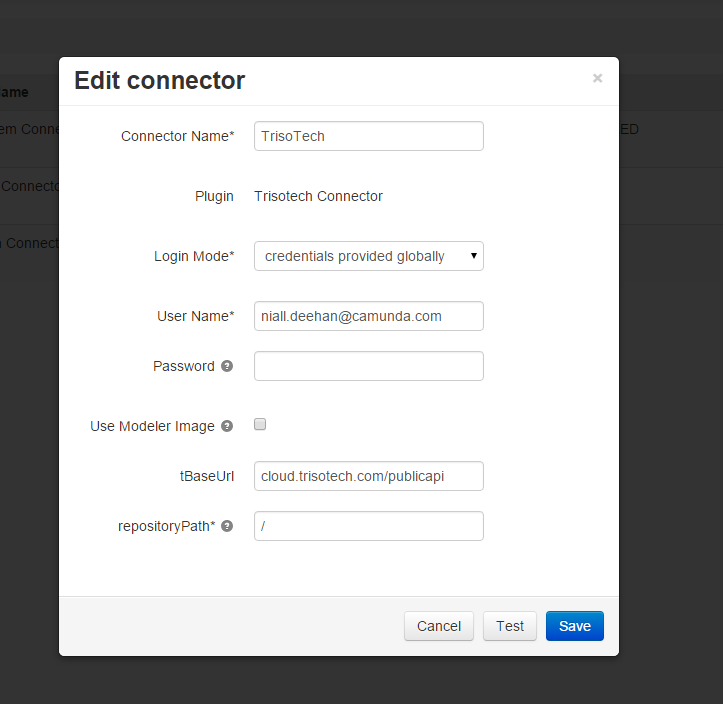
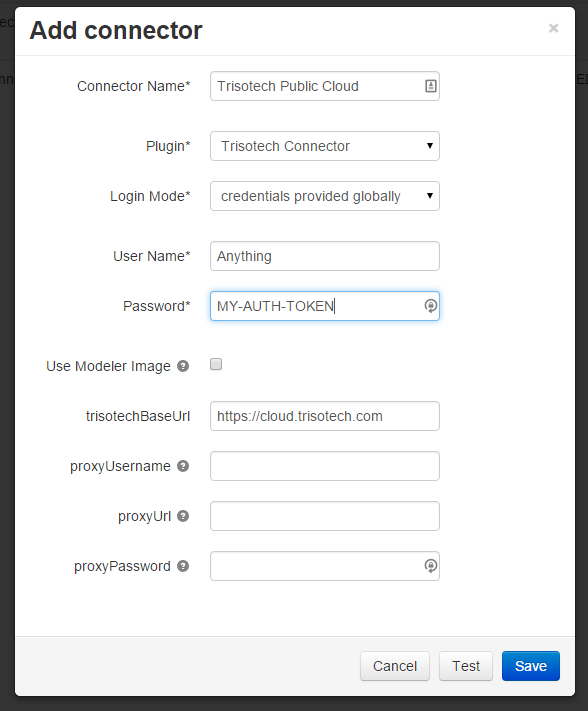
Completed the login mechanism for the Trisotech Connector

diff --git a/src/main/java/org/camunda/bpm/cycle/connector/trisotech/TrisotechClient.java b/src/main/java/org/camunda/bpm/cycle/connector/trisotech/TrisotechClient.java
@@ -100,7 +100,7 @@ public class TrisotechClient {
 	  private Executor requestExecutor;
 
 	  private String configurationName;
-	  private String trisotechBaseUrl; //The default should be - https://cloud.trisotech.com/publicapi/
+	  private String trisotechBaseUrl; //The default should be - https://cloud.trisotech.com
 	  private String proxyUrl;
 	  private String proxyUsername;
 	  private String proxyPassword;
@@ -116,6 +116,17 @@ public class TrisotechClient {
 		  
 		    this.configurationName = configurationName;
 		    this.trisotechBaseUrl = trisotechBaseUrl;
+            //Correct user inputted url
+            if(this.trisotechBaseUrl.endsWith("/")){
+                this.trisotechBaseUrl = this.trisotechBaseUrl.substring(0, this.trisotechBaseUrl.length() - 1);
+            }
+            if(!this.trisotechBaseUrl.endsWith("/publicapi")) {
+               this.trisotechBaseUrl = this.trisotechBaseUrl + "/publicapi";
+            }
+            if(!this.trisotechBaseUrl.startsWith("http")){
+                this.trisotechBaseUrl = "https://" + this.trisotechBaseUrl;
+            }
+            System.out.println("USING" + this.trisotechBaseUrl);
 		    this.proxyUrl = proxyUrl;
 		    this.proxyUsername = proxyUsername;
 		    this.proxyPassword = proxyPassword;
@@ -251,28 +262,17 @@ public class TrisotechClient {
 	 
 	  public boolean login(String username, String password) {   
 		    
-//	This is being commented out until trisotech sort out their login REST call
-//		  
-//		  URIBuilder builder = new URIBuilder()
-//		    	.setScheme("https")
-//	            .setHost(requestUrl(LOGIN_URL_SUFFIX).toString())
-//	            .setParameter("username", username)
-//	            .setParameter("password", password)
-//	            .setParameter("mode", "json");
-//		    	
 
-		// Until the login works - as a temporary measure, we're going to use a test token. 
-		  String testToken = "a16e1c9b-e0c4-4f17-9c03-359faf24429a";
+         // The login token is saved in the password
+		  String testToken = password;
 		  
-		  // https://cloud.trisotech.com/publicapi/login?mode=xml&authtoken=
-		  URIBuilder builder = new URIBuilder()
-	    	.setScheme("https")
-	    	.setHost(requestUrl(LOGIN_URL_SUFFIX).toString())
-	    	.setParameter("mode", "json")
-		  	.setParameter("authtoken", testToken);
-		    
 		    URI uri = null;
 		    try {
+              // https://cloud.trisotech.com/publicapi/login?mode=xml&authtoken=
+              URIBuilder builder = new URIBuilder(requestUrl(LOGIN_URL_SUFFIX).toString())
+                .setParameter("mode", "json")
+                .setParameter("authtoken", testToken);
+		    
 				uri = builder.build();
 			} catch (URISyntaxException e) {
 				e.printStackTrace();
@@ -284,10 +284,9 @@ public class TrisotechClient {
 		    			request.addHeader("accept", ContentType.APPLICATION_JSON.getMimeType());
 		    HttpResponse response = executeAndGetResponse(request);
 		    
-		    String responseResult = extractResponseResult(response);
-		   // System.out.println(responseResult);
-		    if (responseResult == null || responseResult.equals("")) {
-		      throw new CycleException("Could not login into connector '" + configurationName + "'. The user name and/or password might be incorrect.");
+		    String responseResult = extractResponseResult(response);		    
+		    if (responseResult == null || responseResult.equals("") || responseResult.contains("InvalidMemberCredentials")) {
+		      throw new CycleException("Could not login into connector '" + configurationName + "'. The user name and/or password might be incorrect. Make sure that you use the authToken obtained from " + trisotechBaseUrl + "/login as your password." );
 		    }
 		    
 		    String authTokenTemp = "";
@@ -308,16 +307,14 @@ public class TrisotechClient {
 	  
 	  public String getRepositories()
 	  {
-		  //https://cloud.trisotech.com/publicapi/repository?authtoken=a16e1c9b-e0c4-4f17-9c03-&mode=json
-		  URIBuilder builder = new URIBuilder()
-	    	.setScheme("https")
-	    	.setHost(requestUrl(REPOSITORY_URL_SUFFIX).toString())
-	    	.setParameter("mimetype", MIMETYPE_URL_SUFFIX)
-	    	.setParameter("mode", "json")
-		  	.setParameter("authtoken", getAuthToken());
 		    
 		    URI uri = null;
 		    try {
+              //https://cloud.trisotech.com/publicapi/repository?authtoken=a16e1c9b-e0c4-4f17-9c03-&mode=json
+              URIBuilder builder = new URIBuilder(requestUrl(REPOSITORY_URL_SUFFIX).toString())
+                .setParameter("mimetype", MIMETYPE_URL_SUFFIX)
+                .setParameter("mode", "json")
+                .setParameter("authtoken", getAuthToken());
 				uri = builder.build();
 			} catch (URISyntaxException e) {
 				e.printStackTrace();
@@ -351,10 +348,9 @@ public class TrisotechClient {
 		      
 		      URI requestURI = builder.build();
 		      logger.fine(requestURI.toString());
-		     // System.out.println(requestURI.toString());
 		      return requestURI;
 		    } catch (URISyntaxException e) {
-		      throw new CycleException("Failed to construct url for signavio request.", e);
+		      throw new CycleException("Failed to construct url for trisotech request.", e);
 		    }
 		  }
 	  
@@ -476,18 +472,15 @@ public class TrisotechClient {
 
 
 	public String getChildren(TrisotechConnectorNode parent) {
-	
-		URIBuilder builder = new URIBuilder()
-	    	.setScheme("https")
-	    	.setHost(requestUrl(REPOSITORY_CONTENT_URL_SUFFIX).toString())
-	    	.setParameter("repository", getRespositoryName(parent))
-	    	.setParameter("mode", "json")
-	    	.setParameter("mimetype", MIMETYPE_URL_SUFFIX)
-		  	.setParameter("authtoken", getAuthToken())
-		  	.setParameter("path", parent.getTrisotechPath()); 
-		    
+			    
 		    URI uri = null;
 		    try {
+                URIBuilder builder = new URIBuilder(requestUrl(REPOSITORY_CONTENT_URL_SUFFIX).toString())
+                    .setParameter("repository", getRespositoryName(parent))
+                    .setParameter("mode", "json")
+                    .setParameter("mimetype", MIMETYPE_URL_SUFFIX)
+                    .setParameter("authtoken", getAuthToken())
+                    .setParameter("path", parent.getTrisotechPath()); 
 				uri = builder.build();
 			} catch (URISyntaxException e) {
 				e.printStackTrace();
@@ -571,18 +564,15 @@ public class TrisotechClient {
 
 
 	public String createFolder(TrisotechConnectorNode parent, String label) {
-
-		URIBuilder builder = new URIBuilder()
-    	.setScheme("https")
-    	.setHost(requestUrl(REPOSITORY_CONTENT_URL_SUFFIX).toString())
-    	.setParameter("repository", getRespositoryName(parent))
-    	.setParameter("mode", "json")
-    	.setParameter("authtoken", getAuthToken())
-    	.setParameter("path", parent.getTrisotechPath()+label); // we're adding the parent directory and the name of the file together. 
-		//.setParameter("path", getPathFromNode(parent)+label); 
-	    
+    
 	    URI uri = null;
 	    try {
+            URIBuilder builder = new URIBuilder(requestUrl(REPOSITORY_CONTENT_URL_SUFFIX).toString())
+            .setParameter("repository", getRespositoryName(parent))
+            .setParameter("mode", "json")
+            .setParameter("authtoken", getAuthToken())
+            .setParameter("path", parent.getTrisotechPath()+label); // we're adding the parent directory and the name of the file together. 
+            //.setParameter("path", getPathFromNode(parent)+label); 
 			uri = builder.build();
 		} catch (URISyntaxException e) {
 			e.printStackTrace();
@@ -620,24 +610,19 @@ public class TrisotechClient {
 	
 	public String createFileInRepository(TrisotechConnectorNode node, InputStream newContent, String message) {
 		
-		URIBuilder builder = new URIBuilder()
-    	.setScheme("https")
-    	.setHost(requestUrl(REPOSITORY_CONTENT_URL_SUFFIX).toString())
-    	.setParameter("repository", getRespositoryName(node))
-    	.setParameter("mimetype", MIMETYPE_URL_SUFFIX)
-    	.setParameter("mode", "json")
-    	.setParameter("authtoken", getAuthToken())
-    	.setParameter("path", node.getTrisotechPath()); // this should be the name of the path without the filename attached
 		
 	    URI uri = null;
 	    try {
+            URIBuilder builder = new URIBuilder(requestUrl(REPOSITORY_CONTENT_URL_SUFFIX).toString())
+            .setParameter("repository", getRespositoryName(node))
+            .setParameter("mimetype", MIMETYPE_URL_SUFFIX)
+            .setParameter("mode", "json")
+            .setParameter("authtoken", getAuthToken())
+            .setParameter("path", node.getTrisotechPath()); // this should be the name of the path without the filename attached
 			uri = builder.build();
 		} catch (URISyntaxException e) {
 			e.printStackTrace();
 		}
-	    
-	    logger.log(Level.INFO, builder.toString());
-	    System.out.println(builder.toString());
 	    
 	    HttpClient httpclient = new DefaultHttpClient();
 	    HttpPost httpPost = new HttpPost(uri);
@@ -727,16 +712,14 @@ public class TrisotechClient {
 
 	public String deleteFolder(TrisotechConnectorNode node) {
 		
-		URIBuilder builder = new URIBuilder()
-    	.setScheme("https")
-    	.setHost(requestUrl(REPOSITORY_CONTENT_URL_SUFFIX).toString())
-    	.setParameter("repository", getRespositoryName(node))
-    	.setParameter("mode", "json")
-    	.setParameter("authtoken", getAuthToken())
-		.setParameter("id", node.getTrisotechPath()); // The trisotech path of a folder node contains it's name e.g. /test1/thisfolder - so no need to add the "lable"
 	    
 	    URI uri = null;
 	    try {
+            URIBuilder builder = new URIBuilder(requestUrl(REPOSITORY_CONTENT_URL_SUFFIX).toString())
+            .setParameter("repository", getRespositoryName(node))
+            .setParameter("mode", "json")
+            .setParameter("authtoken", getAuthToken())
+            .setParameter("id", node.getTrisotechPath()); // The trisotech path of a folder node contains it's name e.g. /test1/thisfolder - so no need to add the "lable"
 			uri = builder.build();
 		} catch (URISyntaxException e) {
 			e.printStackTrace();
@@ -759,17 +742,15 @@ public class TrisotechClient {
 
 	public String deleteFile(TrisotechConnectorNode node) {
 		
-		URIBuilder builder = new URIBuilder()
-    	.setScheme("https")
-    	.setHost(requestUrl(REPOSITORY_CONTENT_URL_SUFFIX).toString())
-    	.setParameter("repository", getRespositoryName(node))
-    	.setParameter("mode", "json")
-    	.setParameter("authtoken", getAuthToken())
-    	.setParameter("mimetype", MIMETYPE_URL_SUFFIX)
-		.setParameter("sku", node.getTrisotechPath()+node.getLabel()); // The "label" in this case is in fact the ID on there side.
 	    
 	    URI uri = null;
 	    try {
+            URIBuilder builder = new URIBuilder(requestUrl(REPOSITORY_CONTENT_URL_SUFFIX).toString())
+            .setParameter("repository", getRespositoryName(node))
+            .setParameter("mode", "json")
+            .setParameter("authtoken", getAuthToken())
+            .setParameter("mimetype", MIMETYPE_URL_SUFFIX)
+            .setParameter("sku", node.getTrisotechPath()+node.getLabel()); // The "label" in this case is in fact the ID on there side.
 			uri = builder.build();
 		} catch (URISyntaxException e) {
 			e.printStackTrace();

diff --git a/src/main/java/org/camunda/bpm/cycle/connector/trisotech/TrisotechConnector.java b/src/main/java/org/camunda/bpm/cycle/connector/trisotech/TrisotechConnector.java
@@ -47,7 +47,7 @@ public class TrisotechConnector extends Connector {
   @Inject
   private CycleConfiguration cycleConfiguration;
   
-  public final static String CONFIG_KEY_TRISOTECH_BASE_URL = "tBaseUrl";
+  public final static String CONFIG_KEY_TRISOTECH_BASE_URL = "trisotechBaseUrl";
   public final static String CONFIG_KEY_PROXY_URL = "proxyUrl";
   public final static String CONFIG_KEY_PROXY_USERNAME = "proxyUsername";
   public final static String CONFIG_KEY_PROXY_PASSWORD = "proxyPassword";

diff --git a/README.md b/README.md
@@ -4,6 +4,10 @@ This is a Trisotech Connector for [camunda Cycle][1]. It contains the implementa
 
 ![Create Connector Screenshot][2]
 
+**It is important to note that the username could be anything but the password must be a valid authentication token obtained from accessing the url:{trisotechBaseUrl}/publicapi/login from a browser and copy/pasting the value of the authToken variable in the response.**
+The trisotechBaseUrl should only be modified if your company have a private Digital Enterprise Server.
+
+
 ## How to use it?
 
 1. Checkout the project with Git
